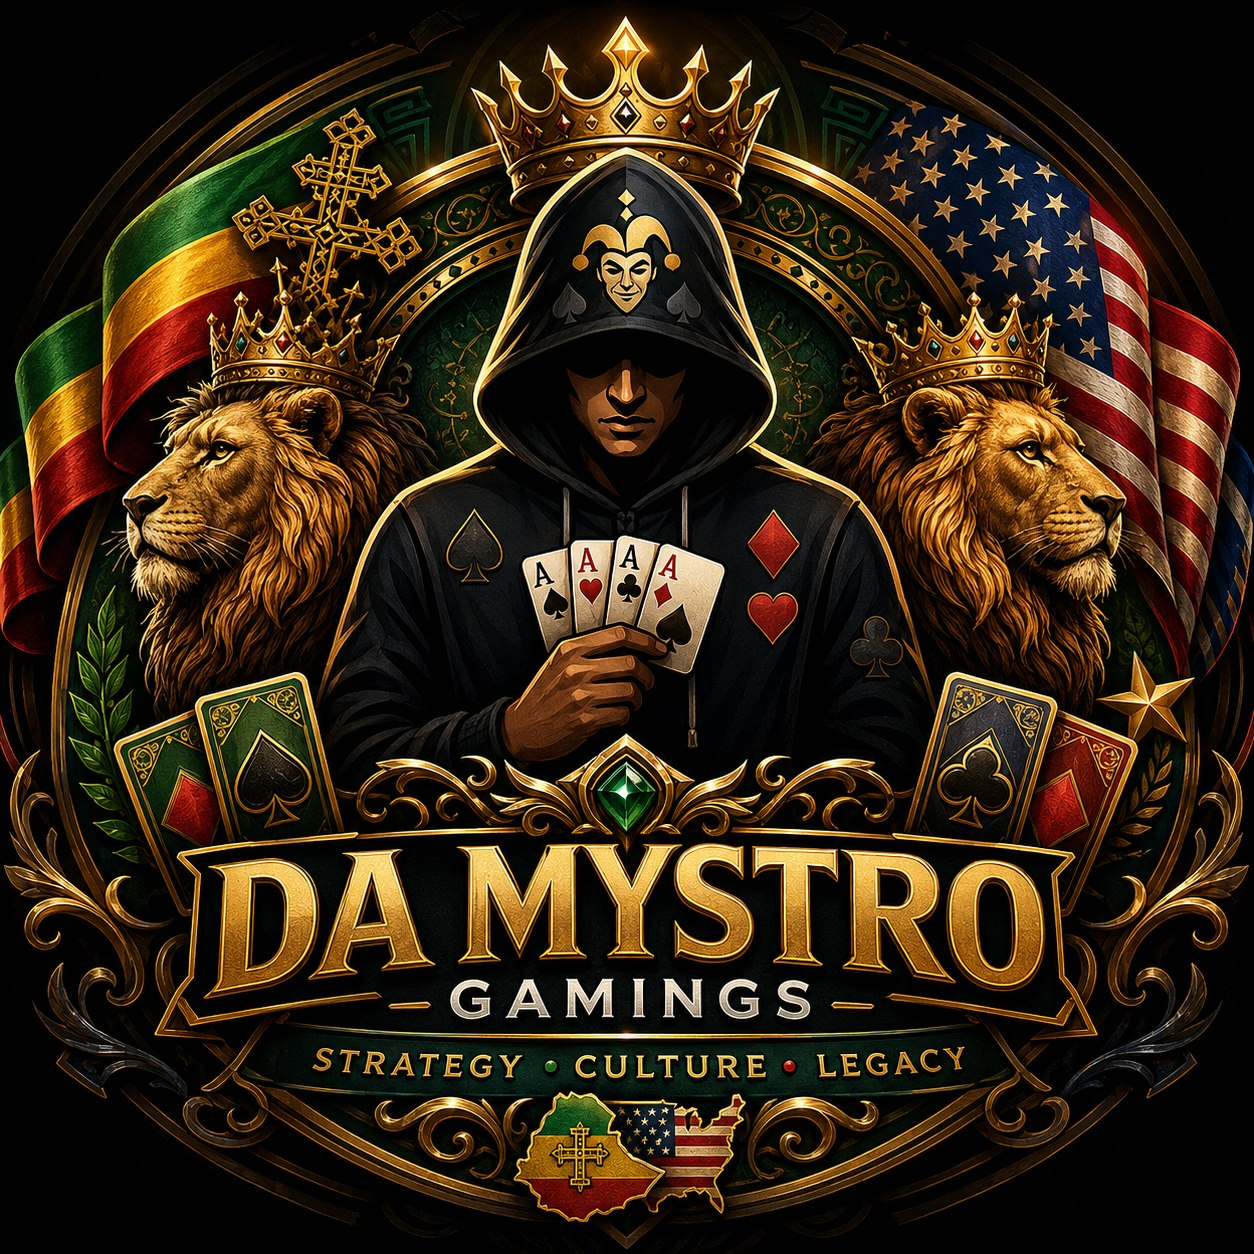
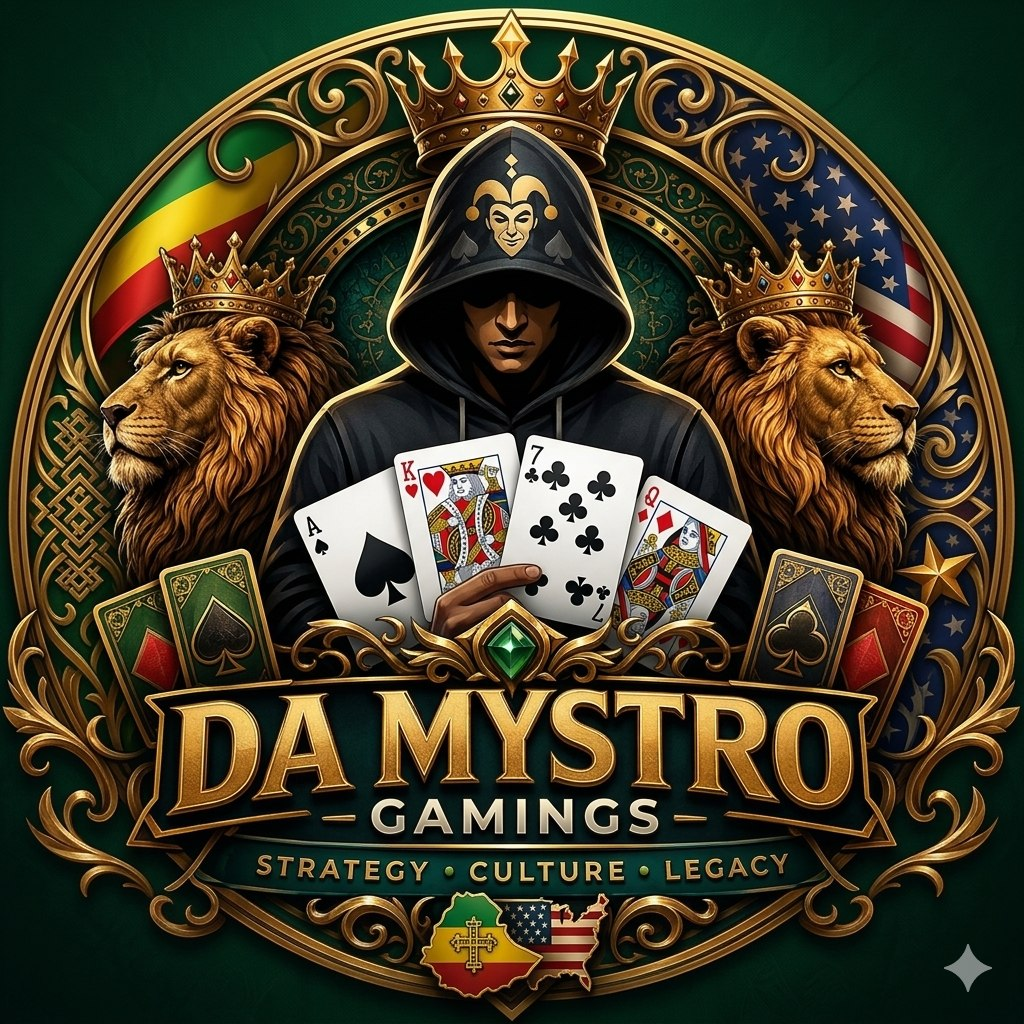
Add Bank Co crest visuals

diff --git a/styles.css b/styles.css
@@ -468,10 +468,19 @@ h2 {
 }
 
 .game-card h3 {
-  margin-top: 2.25rem;
+  margin-top: 1.4rem;
   color: #251b0b;
   font-family: Georgia, "Times New Roman", serif;
   font-size: 1.8rem;
+}
+
+.game-card-art {
+  width: 100%;
+  aspect-ratio: 1;
+  object-fit: cover;
+  margin-bottom: 1rem;
+  border: 1px solid rgba(172, 116, 24, 0.28);
+  box-shadow: 0 16px 30px rgba(80, 49, 6, 0.16);
 }
 
 .game-card a,
@@ -772,6 +781,15 @@ h2 {
 
 .game-detail h2 {
   font-size: clamp(2.2rem, 5vw, 4.4rem);
+}
+
+.game-detail-art {
+  width: min(24rem, 100%);
+  aspect-ratio: 1;
+  object-fit: cover;
+  margin-bottom: 1.5rem;
+  border: 1px solid rgba(172, 116, 24, 0.32);
+  box-shadow: 0 18px 38px rgba(80, 49, 6, 0.18);
 }
 
 .game-detail p {

diff --git a/games/index.html b/games/index.html
@@ -78,6 +78,11 @@
         <article class="game-detail featured" id="bank-co">
           <div class="status-tag">In Development</div>
           <div>
+            <img
+              class="game-detail-art"
+              src="/assets/bank-co-crest.jpg"
+              alt="Da Bank Co crest with crowned lions, cards, and gold lettering"
+            >
             <p class="eyebrow">Priority launch product</p>
             <h2>Bank Co</h2>
             <p>

diff --git a/index.html b/index.html
@@ -123,6 +123,11 @@
 
         <div class="game-grid">
           <article class="game-card featured">
+            <img
+              class="game-card-art"
+              src="/assets/bank-co-crest.jpg"
+              alt="Da Bank Co crest with crowned lions, cards, and gold lettering"
+            >
             <div class="game-topline">
               <span>In Development</span>
               <b>Risk + probability</b>